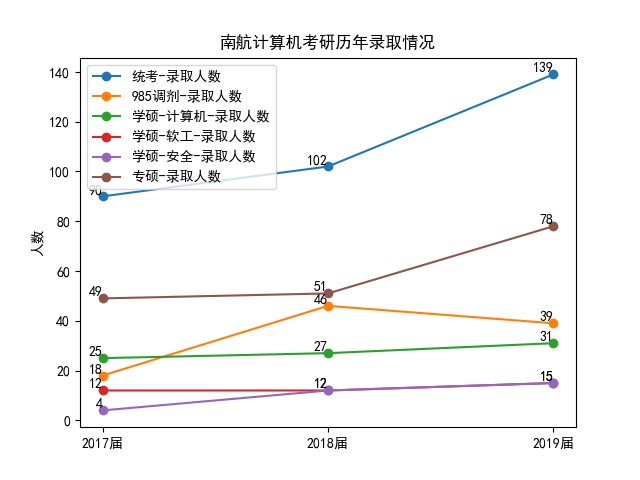
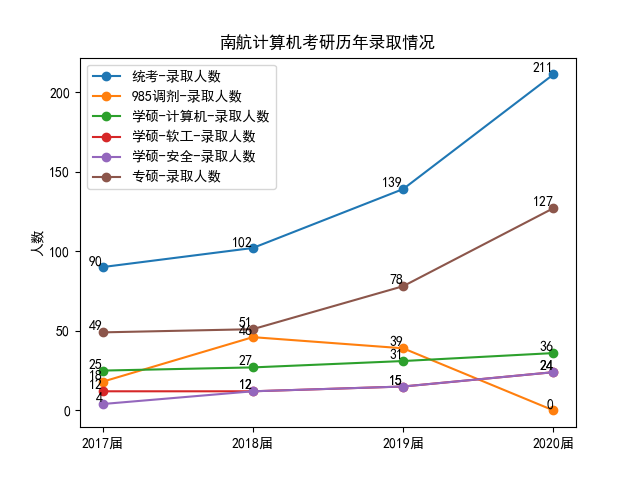
update 2020

diff --git a/plot.py b/plot.py
@@ -15,21 +15,21 @@ plt.rcParams['axes.unicode_minus'] = False
 line_marker = '-o'
 
 
-x = [1, 2, 3]
+x = [1, 2, 3, 4]
 # data
-x_label = ["2017届", "2018届", "2019届"]
-y_统考_录取人数 = [90, 102, 139]
-y_985调剂_录取人数 = [18, 46, 39]
-y_学硕_计算机_录取人数 = [25, 27, 31]
-y_学硕_软工_录取人数 = [12, 12, 15]
-y_学硕_安全_录取人数 = [4, 12, 15]
-y_专硕_录取人数 = [49, 51, 78]
+x_label = ["2017届", "2018届", "2019届", "2020届"]
+y_统考_录取人数 = [90, 102, 139, 211]
+y_985调剂_录取人数 = [18, 46, 39, 0]
+y_学硕_计算机_录取人数 = [25, 27, 31, 36]
+y_学硕_软工_录取人数 = [12, 12, 15, 24]
+y_学硕_网安_录取人数 = [4, 12, 15, 24]
+y_专硕_录取人数 = [49, 51, 78, 127]
 
 y_list = [(y_统考_录取人数, "统考-录取人数"),
           (y_985调剂_录取人数, "985调剂-录取人数"),
           (y_学硕_计算机_录取人数, "学硕-计算机-录取人数"),
           (y_学硕_软工_录取人数, "学硕-软工-录取人数"),
-          (y_学硕_安全_录取人数, "学硕-安全-录取人数"),
+          (y_学硕_网安_录取人数, "学硕-安全-录取人数"),
           (y_专硕_录取人数, "专硕-录取人数")]
 
 plt.xticks(x, x_label)
